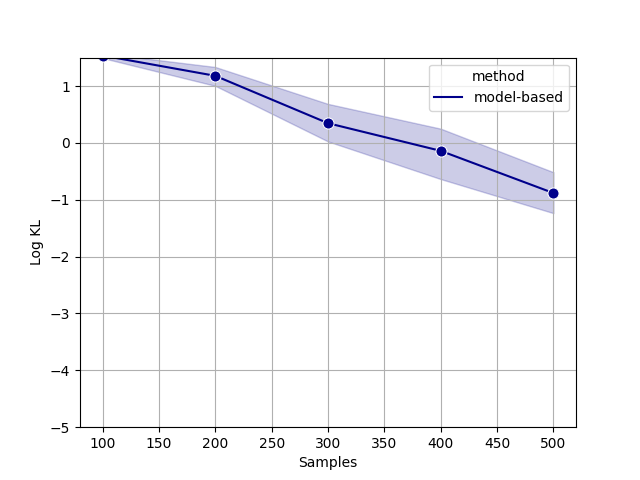
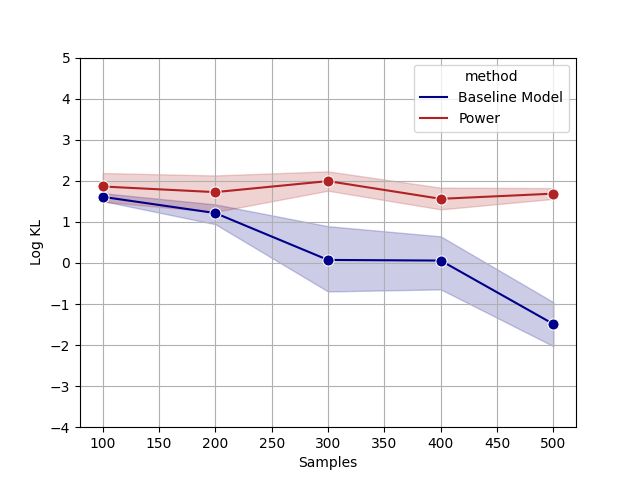
queueing vpm and baseline comparison
comparison shows a weak learner...need to identify sources of issues.

diff --git a/vpm.py b/vpm.py
@@ -1,7 +1,7 @@
 import torch
 from torch import nn
-from torch.utils.data import DataLoader, TensorDataset
 import numpy as np
+from collections import defaultdict
 import queueing
 
 '''
@@ -13,18 +13,12 @@ class Tau(nn.Module):
 		super().__init__()
 		# 4 hidden layers
 		self.model = nn.Sequential(
-			nn.Linear(total_states, 128),
+			nn.Linear(total_states, 32),
 			nn.ReLU(),
-			nn.Linear(128, 128),
-			nn.ReLU(),
-            nn.Linear(128, 128),
-			nn.ReLU(),
-            nn.Linear(128, 128),
-			nn.ReLU(),
-            nn.Linear(128, 128),
+			nn.Linear(32, 32),
 			nn.ReLU()
 		)
-		self.output_layer = nn.Sequential(nn.Linear(128, 1),
+		self.output_layer = nn.Sequential(nn.Linear(32, 1),
 										  nn.Softplus())
 	def forward(self, x):
 		x = self.model(x)
@@ -32,9 +26,8 @@ class Tau(nn.Module):
 		return x
 
 
-def compute_gradients():
-	pass
 
+# based on paper and https://github.com/bmazoure/batch_stationary_distribution
 
 def iterative_vpm(D, alpha_theta, alpha_v, power_steps, M, B, _lambda, max_state, beta1):
 	tau = Tau(total_states = max_state + 1)
@@ -47,48 +40,83 @@ def iterative_vpm(D, alpha_theta, alpha_v, power_steps, M, B, _lambda, max_state
 	optim_v = torch.optim.Adam([v], lr = alpha_v)
 
 	for t in range(power_steps):
-		for m in range(M):
+		# print(f"Power step {t+1}")
+		alpha_t = 1/np.sqrt(t+1)
+		for _ in range(M):
 			# fit transition data
 			x = []
 			x_star = []
 			transition_batch = np.random.choice(len(D), size=B, replace=False)
 			sampled_transitions = D[transition_batch]
 			x = sampled_transitions[:,0]
-			# next state
-			x_star = sampled_transitions[:,1]
-			data_loader = DataLoader(TensorDataset(x, x_star), batch_size=B, shuffle=True)
-			for x, x_star in data_loader:
-				output = tau(x)
-				output.retain_grad()
+			x_star = sampled_transitions[:, 1]
+			# One-hot encoding
+			x = torch.FloatTensor(np.array([[1 if node_val == i else 0 for i in range(max_state+1)] for node_val in x]))
+			x_star = torch.FloatTensor(np.array([[1 if node_val == i else 0 for i in range(max_state+1)] for node_val in x_star]))
+			grad_theta_x, grad_theta_xstar = defaultdict(list),defaultdict(list)
+			tau_x = tau(x)
+			tau_xstar = tau(x_star)
+			tau_t_x = tau_t(x)
+			tau_t_xstar = tau_t(x_star)
+			# Populate the gradients
+			for i in range(len(x)):
 				optim_theta.zero_grad()
-				grad_theta, grad_v = compute_gradients(output, v, lambda_val)
-			print(x_star)
-			break
+				tau_x.backward([torch.FloatTensor([[1] if i==j else [0] for j in range(len(tau_x))]) ], retain_graph=True)
+				for param in tau.named_parameters():
+					grad_theta_x[param[0]].append(param[1].grad.clone())
+				optim_theta.zero_grad()
+				tau_xstar.backward([torch.FloatTensor([[1] if i==j else [0] for j in range(len(tau_xstar))])], retain_graph=True)
+				for param in tau.named_parameters():
+					grad_theta_xstar[param[0]].append(param[1].grad.clone())
+
+			optim_theta.zero_grad()
+			optim_v.zero_grad()
+			
+			for param in tau.named_parameters():
+				# first dimension is B
+				grad_theta_tau_x_mat = torch.stack(grad_theta_xstar[param[0]])
+				grad_theta_tau_xstar_mat = torch.stack(grad_theta_x[param[0]])
+				
+				if len(grad_theta_tau_x_mat.shape) == 3:
+					tiled_tau_xstar =  tau_xstar.repeat(grad_theta_tau_xstar_mat.shape[1],1,grad_theta_tau_xstar_mat.shape[2]).permute(1,0,2)
+					tiled_tau_t_x =  tau_t_x.repeat(grad_theta_tau_xstar_mat.shape[1],1,grad_theta_tau_xstar_mat.shape[2]).permute(1,0,2)
+					tiled_tau_t_xstar =  tau_t_xstar.repeat(grad_theta_tau_xstar_mat.shape[1],1,grad_theta_tau_xstar_mat.shape[2]).permute(1,0,2)
+				else: 
+					tiled_tau_xstar =  tau_xstar.repeat(1,grad_theta_tau_xstar_mat.shape[1])
+					tiled_tau_t_x =  tau_t_x.repeat(1,grad_theta_tau_xstar_mat.shape[1])
+					tiled_tau_t_xstar =  tau_t_xstar.repeat(1,grad_theta_tau_xstar_mat.shape[1])
+
+				# tiled_tau_xstar = tau_xstar.tile((grad_theta_tau_xstar_mat.shape[0], ))
+				# tiled_tau_t_xstar = tau_t_xstar.tile((grad_theta_tau_xstar_mat.shape[0],))
+				# tiled_tau_t_x = tau_t_x.tile((grad_theta_tau_xstar_mat.shape[0],))
+				# print(tiled_tau_xstar.shape, grad_theta_tau_xstar_mat.shape)
+				grad_J_theta = (tiled_tau_xstar * grad_theta_tau_xstar_mat).mean(0) 
+				grad_J_theta -= (1 - alpha_t) * (tiled_tau_t_xstar * grad_theta_tau_xstar_mat).mean(0) 
+				grad_J_theta -= alpha_t * (tiled_tau_t_x * grad_theta_tau_xstar_mat).mean(0)
+				grad_J_theta += v*grad_theta_tau_x_mat.mean(0)
+				param[1].grad = grad_J_theta
+			
+			grad_v = ((tau_x).mean(dim=0)-1-_lambda*v)
+			v.grad = -grad_v
+			
+			optim_theta.step()
+			optim_v.step()
+			
+
 		# update and fix reference network
-		tau_t = tau_theta.clone().detach()
+		tau_t.load_state_dict(tau.state_dict())
 	return tau
 
-def get_D(n_steps, initial_state, qa, qf):
-	state_seq, max_state = queueing.sample_nsteps(n=n_steps+1, initial_state=initial_state,qa=qa,qf=qf)
-	transitions = []
-	for i in range(1,len(state_seq)):
-		transitions.append((state_seq[i-1], state_seq[i]))
+def get_D(n_steps, qa, qf):
+	transitions, max_state = queueing.sample_nsteps(n=n_steps, qa=qa,qf=qf)
 	return transitions, max_state
 
-if __name__ == "__main__":
-	_lambda = 1
-	qa = 0.8
-	qf = 0.9
-	M = 10
-	alpha_theta = 0.0005
-	alpha_v = 0.0005
-	beta1 = 0.5
-	T = 1000
-	rho = (qa*(1-qf))/(qf*(1-qa))
-	B = int(np.ceil(40*rho))
-	D, max_state = get_D(100, 0, qa, qf)
-	D = np.array(D)
-	iterative_vpm(D, alpha_theta, alpha_v, T, M, B, _lambda, max_state, beta1)
+def get_density(tau, max_state):
+	density_ratios = []
+	for idx in range(max_state+1):
+		density_ratios.append(tau(torch.FloatTensor([[1 if i == idx else 0 for i in range(max_state+1)]])).detach().cpu().item())
+	density_ratios = np.array(density_ratios)
+	return density_ratios/np.sum(density_ratios)
 
 
 

diff --git a/queueing.py b/queueing.py
@@ -3,6 +3,7 @@ import scipy.stats
 import seaborn as sns
 import pandas as pd
 import matplotlib.pyplot as plt
+import vpm
 
 '''
 (1) Implement tabular model method by building up the transition matrix directly using the 
@@ -85,6 +86,14 @@ def ground_truth_queueing_stationary(qa, qf, max_state):
 '''
 
 def generate_plots(qa, qf, min_val, max_val, increment, var_name, runs, plot_name):
+	_lambda = 1
+	M = 10
+	alpha_theta = 0.01
+	alpha_v = 0.01
+	beta1 = 0.5
+	T = 50
+	rho = (qa*(1-qf))/(qf*(1-qa))
+	B = int(np.ceil(40*rho))
 	log_kl_dict = {"method":[], "Samples": [], 
                   "Log KL": []}
 	for transition_samples in range(min_val, max_val+1, increment):
@@ -92,62 +101,102 @@ def generate_plots(qa, qf, min_val, max_val, increment, var_name, runs, plot_nam
 		num_runs = 0
 		while num_runs < runs:
 			state_seq, max_state = sample_nsteps(n=transition_samples, qa=qa, qf=qf)
+			D = np.array(state_seq)
+			tau = vpm.iterative_vpm(D, alpha_theta, alpha_v, T, M, B, _lambda, max_state, beta1)
+			estimated_vpm = vpm.get_density(tau, max_state)
+
 			tabular_model = build_tabular(state_seq, max_state)
-			
 			estimated = estimate_tabular_stationary(tabular_model, iters=200)
 			# true distribution only up to a maximum state.
 			true = ground_truth_queueing_stationary(qa, qf, max_state)
 			log_kl = np.log(scipy.stats.entropy(estimated, true))
-			if (log_kl != float("inf")):
+			log_kl_vpm = np.log(scipy.stats.entropy(estimated_vpm, true))
+			if (log_kl != float("inf") and log_kl_vpm != float("inf")):
 				num_runs+=1
+				print(f"On run {num_runs}")
 				#print(estimated, true)
-				log_kl_dict["method"].append("model-based")
+				log_kl_dict["method"].append("Baseline Model")
 				log_kl_dict["Samples"].append(transition_samples)
 				log_kl_dict["Log KL"].append(log_kl)
+				log_kl_dict["method"].append("Power")
+				log_kl_dict["Samples"].append(transition_samples)
+				log_kl_dict["Log KL"].append(log_kl_vpm)
 
 	log_kl_pd = pd.DataFrame(log_kl_dict)
-	log_kl_plot = sns.lineplot(data=log_kl_pd, x="Samples", y="Log KL", hue="method", marker="o", palette=["darkblue"], markersize=8)
-	log_kl_plot.set(ylim=(-5, 1.5))
+	plt.clf()
+	log_kl_plot = sns.lineplot(data=log_kl_pd, x="Samples", y="Log KL", hue="method", marker="o", palette=["darkblue","firebrick"], markersize=8)
+	log_kl_plot.set(ylim=(-4, 5))
 	plt.grid()
 	fig = log_kl_plot.get_figure()
 	fig.savefig(f"{plot_name}.png") 
 	
 def generate_plots_over_qf(qa, min_val, max_val,  runs, plot_name):
-	log_kl_dict = {"method":[], "Prob": [], 
-	"Log KL":[]}
+	log_kl_dict = {"method":[], "Prob": [], "Log KL":[]}
 	qfs = [np.round(min_val+(0.01)*i, 2) for i in range(int((max_val-min_val)/0.01 )+1)]
+	_lambda = 1
+	M = 10
+	alpha_theta = 0.01
+	alpha_v = 0.01
+	beta1 = 0.5
+	T = 50
 
 	for qf in qfs:
-		print(qf)
+		print(f"Generating runs for finish probability: {qf}")
+		rho = (qa*(1-qf))/(qf*(1-qa))
+		B = int(np.ceil(40*rho))
 		num_runs = 0
 		while num_runs < runs:
-			
 			state_seq, max_state = sample_nsteps(n=200, qa=qa, qf=qf)
 			tabular_model = build_tabular(state_seq, max_state)
 			if (np.isnan(tabular_model).any()):
 				continue
-	
+
+			D = np.array(state_seq)
+			tau = vpm.iterative_vpm(D, alpha_theta, alpha_v, T, M, B, _lambda, max_state, beta1)
+			estimated_vpm = vpm.get_density(tau, max_state)
+
 			estimated = estimate_tabular_stationary(tabular_model, iters=200)
 			true = ground_truth_queueing_stationary(qa, qf, max_state)
 			log_kl = np.log(scipy.stats.entropy(estimated, true))
-			if (log_kl != float("inf")):
+
+			log_kl_vpm = np.log(scipy.stats.entropy(estimated_vpm, true))
+			if (log_kl != float("inf") and log_kl_vpm != float("inf")):
 				num_runs+=1
-				log_kl_dict["method"].append("model-based")
+				print(f"On run {num_runs}")
+				log_kl_dict["method"].append("Baseline Model")
 				log_kl_dict["Prob"].append(qf)
 				log_kl_dict["Log KL"].append(log_kl)
+
+				log_kl_dict["method"].append("Power")
+				log_kl_dict["Prob"].append(qf)
+				log_kl_dict["Log KL"].append(log_kl_vpm)
+
 	log_kl_pd = pd.DataFrame(log_kl_dict)
 	plt.clf()
 	log_kl_plot = sns.lineplot(data=log_kl_pd, x="Prob", y="Log KL", hue="method", marker="o", 
-							   palette=["darkblue"], markersize=8)
-	log_kl_plot.set(ylim=(-5, 1.5))
+							palette=["darkblue", "firebrick"], markersize=8)
+	log_kl_plot.set(ylim=(-4, 5))
 	plt.grid()
 	fig = log_kl_plot.get_figure()
 	fig.savefig(f"{plot_name}.png")
 
 if __name__ == "__main__":
-	qa, qf = 0.8, 0.9
+	# _lambda = 1
+	qa = 0.8
+	qf = 0.9
+	# M = 10
+	# alpha_theta = 0.01
+	# alpha_v = 0.01
+	# beta1 = 0.5
+	# T = 100
+	# rho = (qa*(1-qf))/(qf*(1-qa))
+	# B = int(np.ceil(40*rho))
+	# D, max_state = sample_nsteps(100, qa, qf)
+	# D = np.array(D)
+	# tau = iterative_vpm(D, alpha_theta, alpha_v, T, M, B, _lambda, max_state, beta1)
+
 	min_transitions, max_transitions = 100, 500
-	runs = 30
+	runs = 10
 	"""	
 	sampled_transitions, max_state = sample_nsteps(n=2000, qa=qa, qf=qf)
 	# print(sampled_transitions)
@@ -163,7 +212,7 @@ if __name__ == "__main__":
 	print(log_kl)
 	"""
 
-	np.random.seed(20)
+	np.random.seed(43)
 	generate_plots(qa, qf, min_transitions, max_transitions, 100, "transition_samples", runs, "figure2")
 	generate_plots_over_qf(qa, 0.82, 0.90, runs, "figure2_qf")
 	
